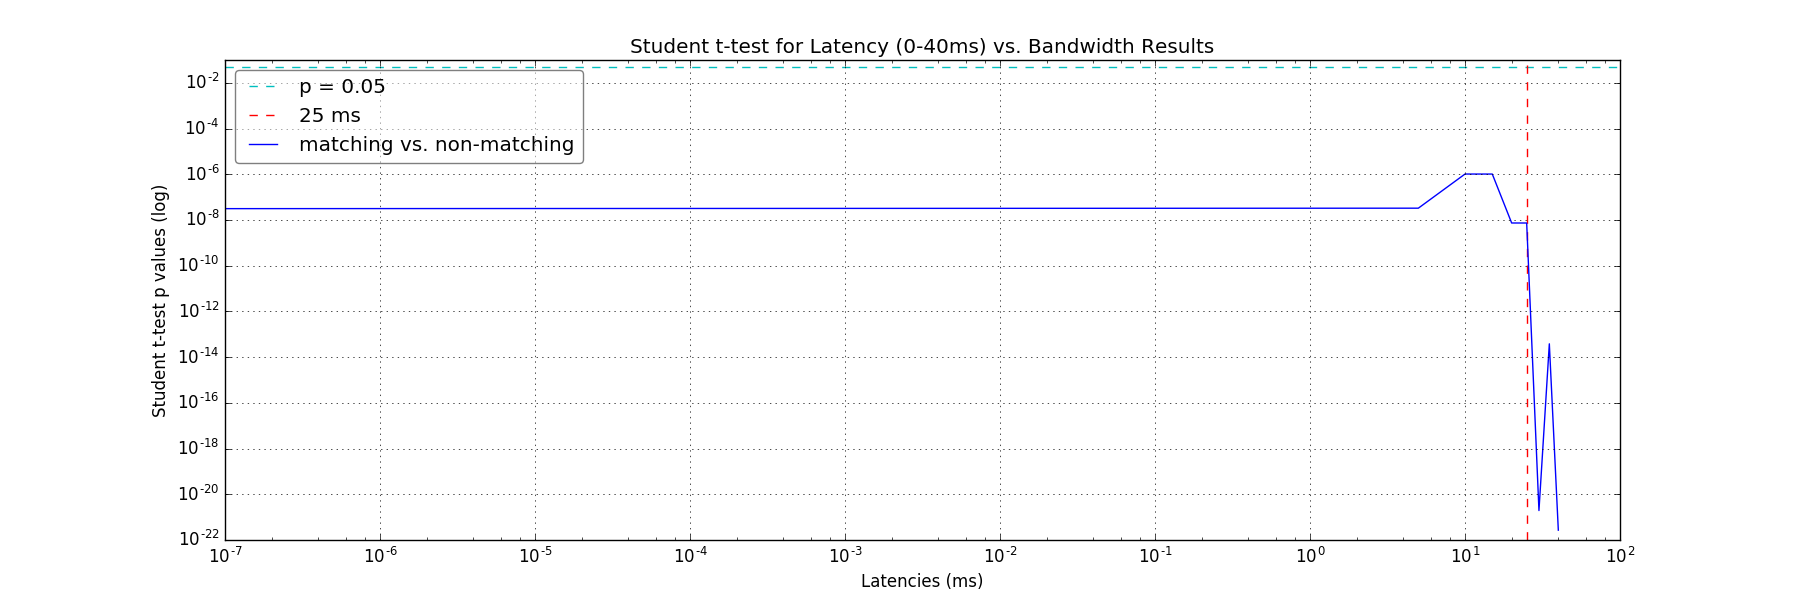
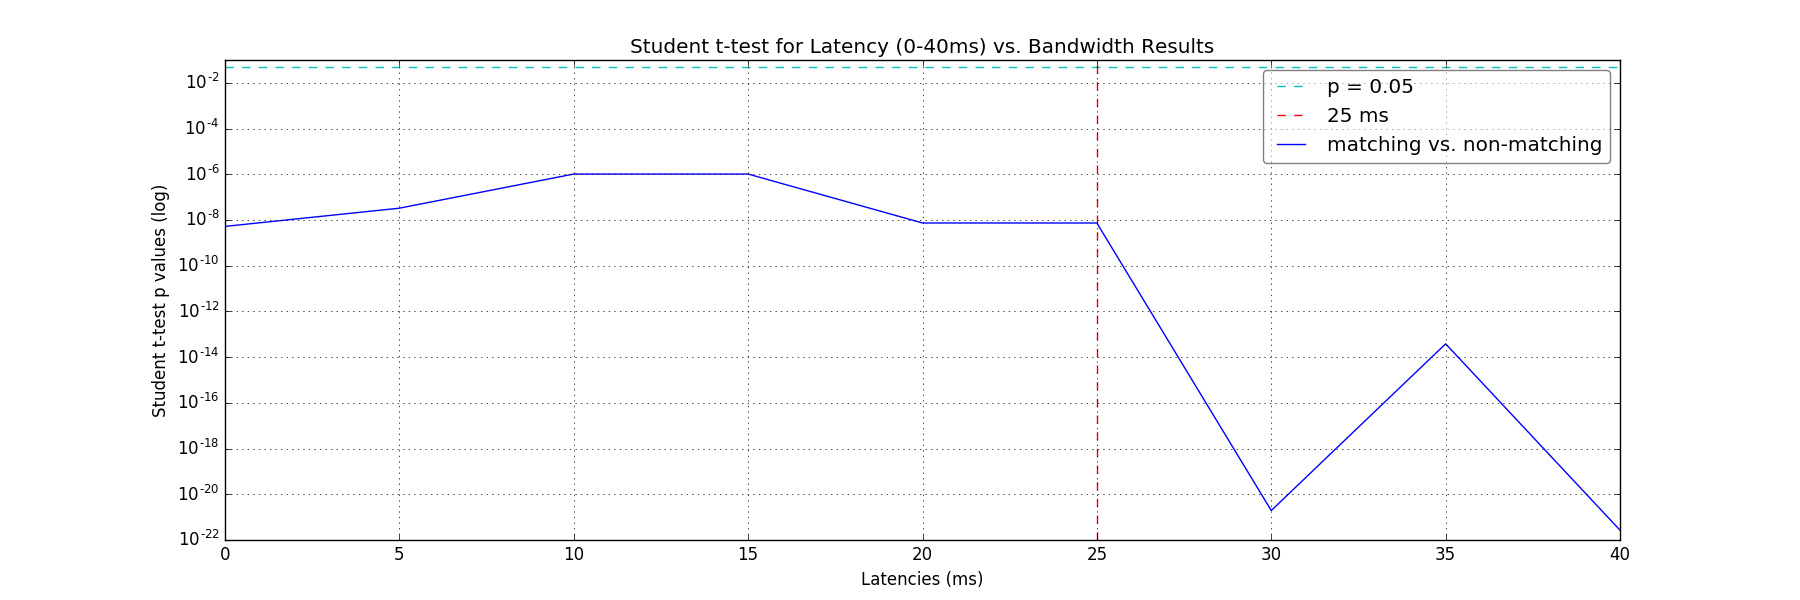
t-test dont use log for x-scale

diff --git a/l41-labs/lab3/median.py b/l41-labs/lab3/median.py
@@ -47,7 +47,7 @@ ax2.axvline(x=25, linestyle="--", color='r', label = "25 ms")
 
 for pl in toPlot:
     ax2.semilogy(LATENCIES,pl['data'], label=pl['lbl'])
-    ax2.set_xscale('log')
+    # ax2.set_xscale('log')
 
 ax2.legend(fancybox=True, framealpha=0.5, loc="best")
 
